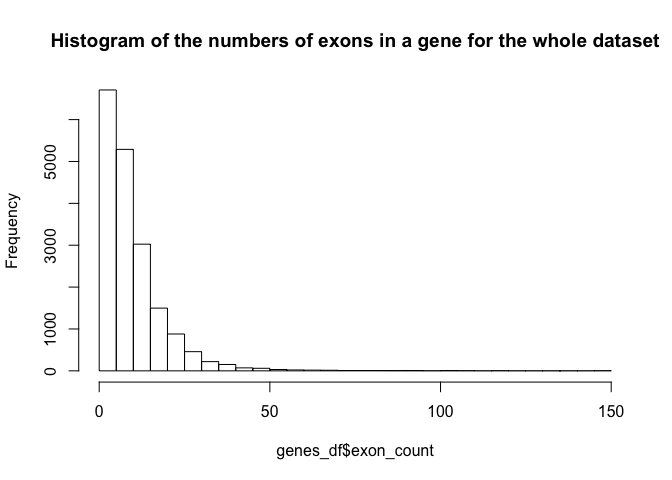
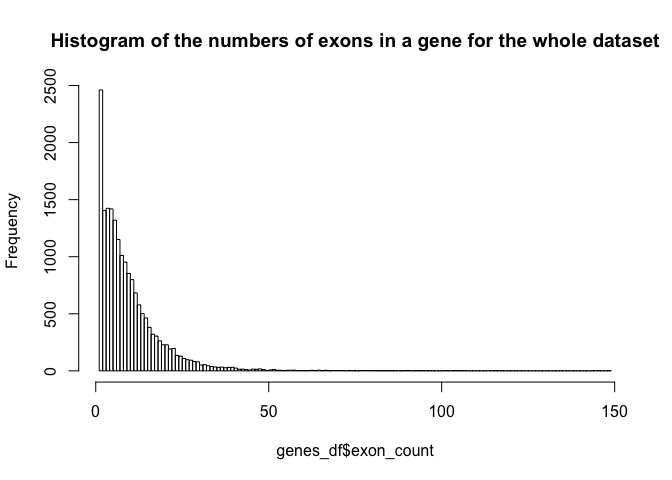
corrections

diff --git a/hw1/hw1.md b/hw1/hw1.md
@@ -37,13 +37,16 @@ summary(genes_df)
 *Make a histogram that shows what the typical number of exons is. Adjust the bins so that we can pinpoint exactly what number of exons that is the most common. Comment the plot.*
 
 ``` r
-hist(genes_df$exon_count, breaks = 50, main = "Histogram of the numbers of exons in a gene for the whole dataset")
+hist(genes_df$exon_count, 
+     breaks = max(genes_df$exon_count), 
+     main = "Histogram of the numbers of exons in a gene for the whole dataset")
 ```
 
 ![](hw1_files/figure-markdown_github/unnamed-chunk-2-1.png)
 
 ``` r
-hist(genes_df$exon_count[genes_df$exon_count<50], breaks = 30)
+hist(genes_df$exon_count[genes_df$exon_count<50], 
+     breaks = max(genes_df$exon_count[genes_df$exon_count<50]))
 ```
 
 ![](hw1_files/figure-markdown_github/unnamed-chunk-3-1.png)
@@ -79,8 +82,14 @@ summary(genes_df$intron_length)
 *Make histograms and boxplots showing the distribution of total exon and total intron lengths, all as subplots in the same larger plot, where each dataset have a different color. On the histograms, the number of bins should be exactly the same, and the x-axis should have the same scale.* *Comment the plot – are exons larger than introns or vice versa?*
 
 ``` r
-hist(genes_df$intron_length,col=rgb(1,0,0,0.5), breaks = 50, main="The length of total exon (blue) and total intron (red)", xlab="length")
-hist(genes_df$mrna_length, col=rgb(0,0,1,0.5), breaks = 50, add=TRUE)
+hist(genes_df$intron_length, 
+     col=rgb(1,0,0,0.5), 
+     breaks = 50, 
+     main="The length of total exon (blue) and total intron (red)", xlab="length")
+hist(genes_df$mrna_length, 
+     col=rgb(0,0,1,0.5), 
+     breaks = 25, 
+     add=TRUE)
 ```
 
 ![](hw1_files/figure-markdown_github/unnamed-chunk-6-1.png)
@@ -90,8 +99,15 @@ Most of the introns are enormously larger than exons.
 Visualise the distribution of those less than 100,000 bp in length.
 
 ``` r
-hist(genes_df$intron_length[genes_df$intron_length<100000],col=rgb(1,0,0,0.5), breaks = 50, ylim = c(0,8000), main="The length of total exon (blue) and total intron (red)", xlab="length")
-hist(genes_df$mrna_length[genes_df$mrna_length<100000], col=rgb(0,0,1,0.5), breaks = 25, add=TRUE)
+hist(genes_df$intron_length[genes_df$intron_length<100000], 
+     col=rgb(1,0,0,0.5), 
+     breaks = 50, 
+     ylim = c(0,8000), 
+     main="The length of total exon (blue) and total intron (red)", xlab="length")
+hist(genes_df$mrna_length[genes_df$mrna_length<100000], 
+     col=rgb(0,0,1,0.5), 
+     breaks = 25, 
+     add=TRUE)
 ```
 
 ![](hw1_files/figure-markdown_github/unnamed-chunk-7-1.png)
@@ -188,6 +204,13 @@ summary(exonL_intronL)
     ## F-statistic:  2536 on 1 and 18487 DF,  p-value: < 2.2e-16
 
 ``` r
+par(mfrow=c(2,2))
+plot(exonL_intronL)
+```
+
+![](hw1_files/figure-markdown_github/unnamed-chunk-11-3.png)
+
+``` r
 summary(exonL_exonN)
 ```
 
@@ -210,6 +233,12 @@ summary(exonL_exonN)
     ## Multiple R-squared:  0.4084, Adjusted R-squared:  0.4083 
     ## F-statistic: 1.276e+04 on 1 and 18487 DF,  p-value: < 2.2e-16
 
+``` r
+plot(exonL_exonN)
+```
+
+![](hw1_files/figure-markdown_github/unnamed-chunk-11-4.png)
+
 6. Longest total exon length
 ============================
 
@@ -230,7 +259,9 @@ genes_df[genes_df$mrna_length == max(genes_df$mrna_length), ]
 *Make a function called “count\_genes” that takes two inputs: a. A vector with mRNA lengths b. A cutoff x1 which by default should be set to 0 c. A cutoff x2 which by default should be set to the longest (total) mrna length of the input vector, as you did in “6)”. d. Then, the function should count the number of mRNAs that are no less than (&lt;=) x2 but larger than (&gt;) x1; and finally return the fraction of this count over the total count of mRNAs.*
 
 ``` r
-count_genes <- function(mrna_length_vec, x1=0, x2=43815){
+longest_mrna <- max(genes_df$mrna_length)
+count_genes <- function(mrna_length_vec, x1=0, x2=longest_mrna){
+  # If both comparisons are true, it will return 1. Do this for all genes and get the sum. 
   count <- sum((x1 < mrna_length_vec) & (mrna_length_vec <= x2))
 }
 ```
@@ -243,9 +274,9 @@ counts[1] <- count_genes(genes_df$mrna_length)
 counts[2] <- count_genes(genes_df$mrna_length, x1=10000)
 counts[3] <- count_genes(genes_df$mrna_length, x1=1000, x2=10000)
 counts[4] <- count_genes(genes_df$mrna_length, x1=100, x2=1000)
-counts[5] <- count_genes(genes_df$mrna_length, x1=0, x2=1000)
+counts[5] <- count_genes(genes_df$mrna_length, x1=0, x2=100)
 
 counts
 ```
 
-    ## [1] 18489   209 16146  2134  2134
+    ## [1] 18489   209 16146  2134     0
